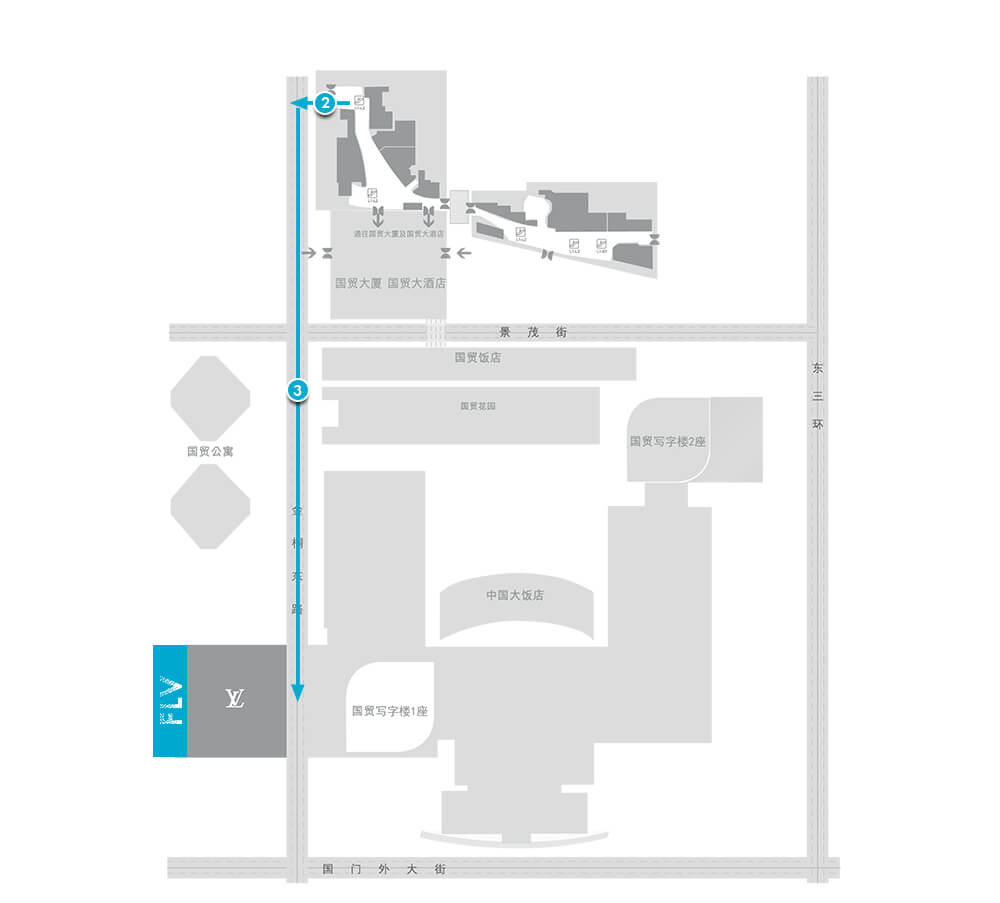
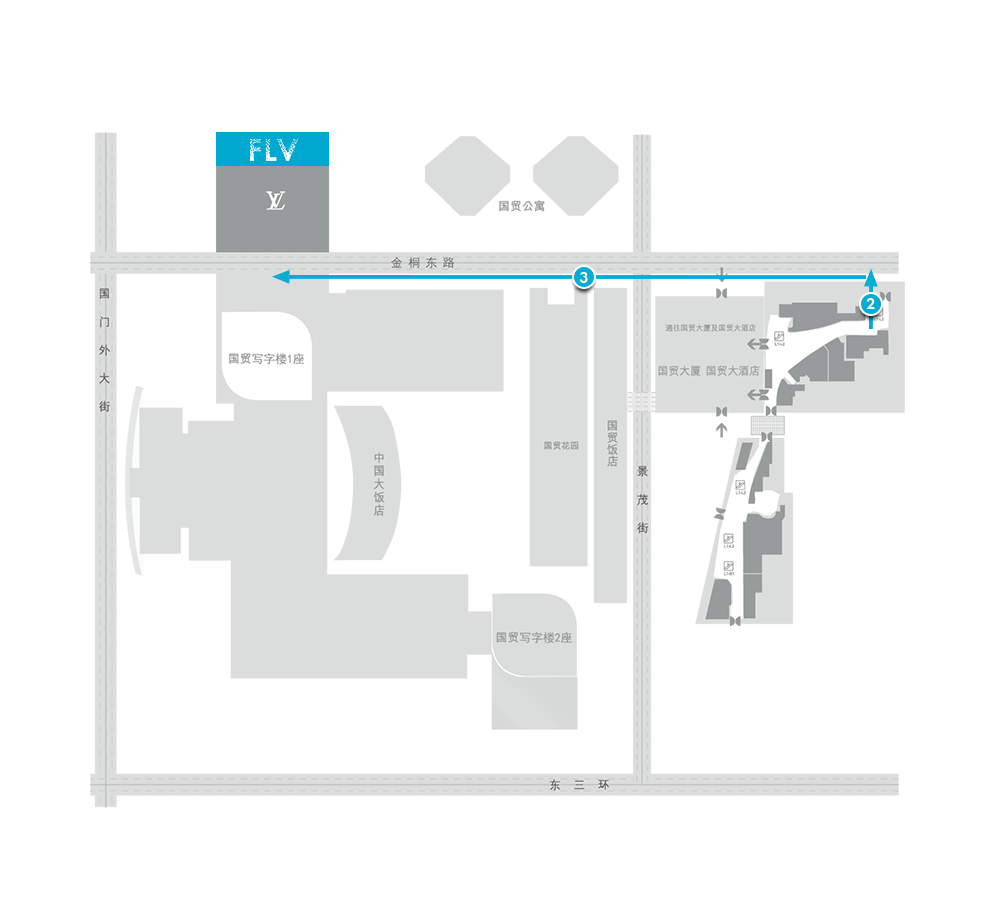
update ibeacon

diff --git a/web/fondation/ibeacon/map-7.html b/web/fondation/ibeacon/map-7.html
@@ -19,8 +19,8 @@
 
     .mapcon img#hit{
       position: absolute;
-      left: -40px;
-      top: 50px;
+      left: -70px;
+      top: 0;
       width: 160%;
       height: auto;
     }
@@ -34,7 +34,7 @@
         <div class="guide" id="content">
           <ul class="floor">
             <li>
-                <span class="curfloor hover">L2</span><span class="textStaus-3"><em>1</em>向西10米</span><span class="textStaus-2"><em>2</em>向南10米<br/>至LV店铺</span>
+                <span class="curfloor hover">L2</span><span class="textStaus-3"><em>1</em>向西10米</span><span class="textStaus-2"><em>2</em>下扶梯至<br/>一楼LV店铺</span>
                 <span class="textStaus-2">到达路易威登之家<br/>及基金会展览</span>
             </li>
           <ul>

diff --git a/web/fondation/ibeacon/map-2.html b/web/fondation/ibeacon/map-2.html
@@ -34,7 +34,7 @@
         <div class="guide" id="content">
           <ul class="floor">
             <li>
-                <span class="curfloor hover">B1</span><span class="textStaus-2"><em>1</em>向西沿走廊<br/>前行130米</span><span class="textStaus-2">到达路易威登之家<br/>及基金会展览</span>
+                <span class="curfloor hover">B1</span><span class="textStaus-2"><em>1</em>向西沿走廊<br/>前行130米</span><span class="textStaus-2">上扶梯至一楼<br/>路易威登店铺</span><span class="textStaus-2">到达路易威登之家<br/>及基金会展览</span>
             </li>
           <ul>
         </div>  

diff --git a/web/fondation/ibeacon/map-4.html b/web/fondation/ibeacon/map-4.html
@@ -34,7 +34,7 @@
         <div class="guide" id="content">
           <ul class="floor">
             <li>
-                <span class="curfloor hover">B1</span><span class="textStaus-2"><em>1</em>向西南<br/>前行40米</span><span class="textStaus-2">到达路易威登之家<br/>及基金会展览</span>
+                <span class="curfloor hover">B1</span><span class="textStaus-2"><em>1</em>向西南<br/>前行40米</span><span class="textStaus-2">上扶梯至一楼<br/>路易威登店铺</span><span class="textStaus-2">到达路易威登之家<br/>及基金会展览</span>
             </li>
           <ul>
         </div>  

diff --git a/web/fondation/ibeacon/map-8.html b/web/fondation/ibeacon/map-8.html
@@ -18,7 +18,7 @@
     }
 #hit{
       position: absolute;
-      left: -100px;
+      left: -200px;
       top: -20px;
       width: 167%;
       height: auto;

diff --git a/web/css/page.css b/web/css/page.css
@@ -415,7 +415,7 @@ html,body{
 
 .floor_guide img{
   width: auto;
-  height: 80%;
+  height: 60%;
   margin: 1% 0 0 3%;
   display: inline-block;
 }
